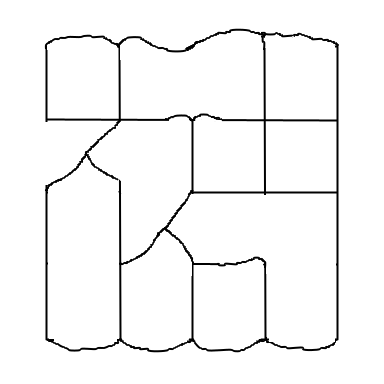
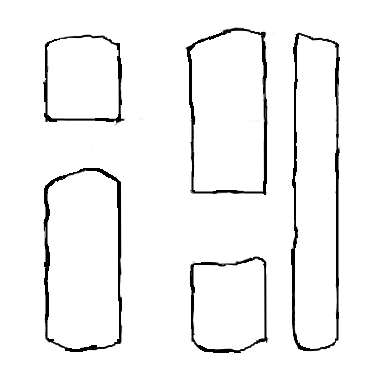
marl map changed, pt file added

diff --git a/source/car_training/car_training/tasks/manager_based/car_training/multiagent_training_env.py b/source/car_training/car_training/tasks/manager_based/car_training/multiagent_training_env.py
@@ -111,10 +111,10 @@ class MultiAgentEnv(ManagerBasedRLEnv):
                 self.logger.info("Static track image initialized.")
 
                 # save static track image as a .pt file
-                # torch.save(self.static_track_image.cpu(), f"{ASSET_FOLDER}/scene_assets/multiagent_static_track_image.pt")
+                # torch.save(self.static_track_image.cpu(), f"{ASSET_FOLDER}/scene_assets/multiagent_static_track_image_isolated.pt")
             else:
                 # use torch.load to load pre-saved static track image
-                self.static_track_image: torch.Tensor = torch.load(f"{ASSET_FOLDER}/scene_assets/multiagent_static_track_image.pt").to(self.device)
+                self.static_track_image: torch.Tensor = torch.load(f"{ASSET_FOLDER}/scene_assets/multiagent_static_track_image_isolated.pt").to(self.device)
                 if self.num_envs <= self.static_track_image.shape[0]:
                     # only take into account the first N environments
                     self.static_track_image = self.static_track_image[:self.num_envs]
